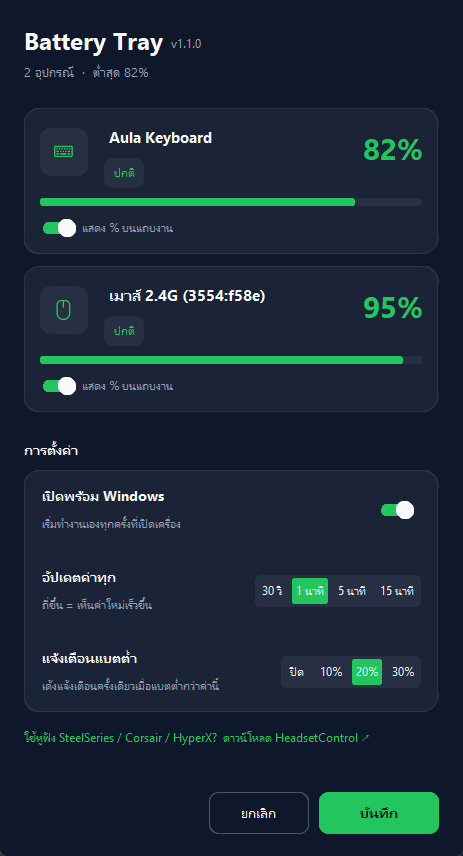
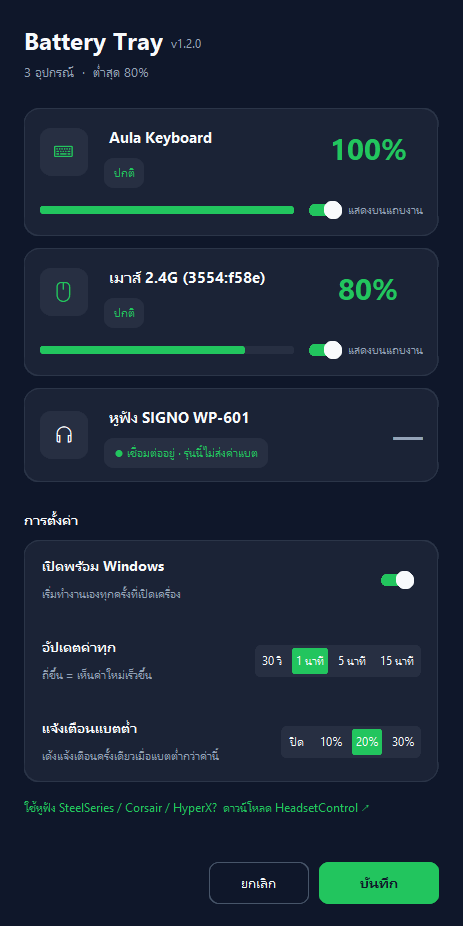
Show headset card for dongles that don't report battery; keep settings window on screen
SIGNO WP-601 (040b:0897) shows connected/unplugged status without a tray
icon. Cards are more compact, the device list scrolls when it would exceed
the screen height, and the window is centered after layout.

diff --git a/battery_monitor.py b/battery_monitor.py
@@ -345,6 +345,27 @@ def bt_devices():
     return [{"key": "bt:" + n, "kind": None, "name": n, "read": lambda n=n: read(n)} for n in bt_batteries()]
 
 
+# ---------- 5. อุปกรณ์ที่ไม่ส่งค่าแบต (แสดงแค่สถานะการเชื่อมต่อ) ----------
+
+# ดองเกิลไม่ส่งค่าแบตมาที่คอม (ตรวจแล้ว: ไม่มีใน HID และโปรแกรมของผู้ผลิตก็ไม่มีฟีเจอร์แบต)
+NO_BATTERY = {"040b:0897": ("หูฟัง SIGNO WP-601", "headset")}
+
+
+def present_usb_keys():
+    return {f"{d['vendor_id']:04x}:{d['product_id']:04x}" for d in hid.enumerate()}
+
+
+def nobattery_devices(cache):
+    """การ์ดสถานะการเชื่อมต่อ — แสดงเฉพาะรุ่นที่เคยเสียบในเครื่องนี้"""
+    seen = cache.setdefault("seen_nobat", [])
+    for key in present_usb_keys() & NO_BATTERY.keys():
+        if key not in seen:
+            seen.append(key)
+    return [{"key": "usb:" + key, "kind": NO_BATTERY[key][1], "name": NO_BATTERY[key][0], "no_battery": True,
+             "read": lambda: None, "connected": lambda k=key: k in present_usb_keys()}
+            for key in seen if key in NO_BATTERY]
+
+
 # ---------- อุปกรณ์ ----------
 
 def load_cache():
@@ -367,7 +388,7 @@ def discover(cache):
     """รวมอุปกรณ์จากทุกแหล่ง — คืนรายการ {key, kind, name, read}"""
     devices = []
     for source in (lambda: compx_devices(cache.setdefault("kinds", {})), lambda: logi_devices(cache),
-                   headset_devices, bt_devices):
+                   headset_devices, bt_devices, lambda: nobattery_devices(cache)):
         try:
             devices += source()
         except Exception:  # แหล่งใดพังไม่ควรทำให้แหล่งอื่นหาย
@@ -494,14 +515,42 @@ def settings_window(devices, settings, last, on_save):
                      text_color=C["text"]).pack(anchor="w", padx=18, pady=(16, 2))
         ctk.CTkLabel(empty, text="เสียบดองเกิล เปิดอุปกรณ์ แล้วคลิกขวาที่ไอคอน → ค้นหาอุปกรณ์ใหม่",
                      font=(TH, 13), text_color=C["sub"]).pack(anchor="w", padx=18, pady=(0, 16))
+    # ponytail: จำนวนการ์ดที่แสดงพร้อมกันประมาณจากความสูงจอ (ส่วนอื่นของหน้าต่าง ~600px, การ์ด ~128px)
+    MAX_CARDS = max(1, (root.winfo_screenheight() - 600) // 128)
+    devlist = (ctk.CTkScrollableFrame(body, height=MAX_CARDS * 128, fg_color=C["bg"])
+               if len(shown) > MAX_CARDS else ctk.CTkFrame(body, fg_color=C["bg"]))
+    devlist.pack(fill="x")
     for dev in shown:
+        if dev.get("no_battery"):
+            connected = dev["connected"]()
+            card = ctk.CTkFrame(devlist, fg_color=C["card"], corner_radius=16, border_width=1, border_color=C["line"])
+            card.pack(fill="x", pady=6)
+            card.grid_columnconfigure(1, weight=1)
+            badge = ctk.CTkFrame(card, width=48, height=48, corner_radius=12, fg_color=C["muted"])
+            badge.grid(row=0, column=0, rowspan=2, padx=(16, 12), pady=16)
+            badge.grid_propagate(False)
+            ctk.CTkLabel(badge, text=GLYPH.get(dev.get("kind"), GLYPH[None]), font=("Segoe MDL2 Assets", 20),
+                         text_color=C["text"] if connected else C["sub"]).place(relx=0.5, rely=0.5, anchor="center")
+            name = ctk.StringVar(value=settings["names"].get(dev["key"], dev["name"]))
+            entry = ctk.CTkEntry(card, textvariable=name, font=(TH, 15, "bold"), text_color=C["text"],
+                                 fg_color=C["card"], border_width=1, border_color=C["card"], corner_radius=8, height=32)
+            entry.grid(row=0, column=1, sticky="ew", pady=(14, 0))
+            focus_ring(entry)
+            pill = ctk.CTkFrame(card, fg_color=C["muted"], corner_radius=10)
+            pill.grid(row=1, column=1, sticky="w", padx=4, pady=(4, 14))
+            ctk.CTkLabel(pill, text="● เชื่อมต่ออยู่ · รุ่นนี้ไม่ส่งค่าแบต" if connected else "○ ไม่ได้เสียบดองเกิล",
+                         font=(TH, 12), text_color=C["accent"] if connected else C["sub"]).pack(padx=10, pady=1)
+            ctk.CTkLabel(card, text="—", font=("Segoe UI", 30, "bold"),
+                         text_color=C["sub"]).grid(row=0, column=2, rowspan=2, padx=(8, 16))
+            rows.append((dev, None, name))
+            continue
         old = last.get(dev["key"])
         stale = bool(dev.get("stale"))
         pct = old[0][0] if old else None
         status, scolor = status_of(old, stale)
         color = hexc(level_color(pct)) if pct is not None and not stale else C["sub"]
 
-        card = ctk.CTkFrame(body, fg_color=C["card"], corner_radius=16, border_width=1, border_color=C["line"])
+        card = ctk.CTkFrame(devlist, fg_color=C["card"], corner_radius=16, border_width=1, border_color=C["line"])
         card.pack(fill="x", pady=6)
         card.grid_columnconfigure(1, weight=1)
 
@@ -525,12 +574,12 @@ def settings_window(devices, settings, last, on_save):
 
         bar = ctk.CTkProgressBar(card, height=8, corner_radius=4, fg_color=C["muted"], progress_color=color)
         bar.set((pct or 0) / 100)
-        bar.grid(row=2, column=0, columnspan=3, sticky="ew", padx=16, pady=(10, 10))
+        bar.grid(row=2, column=0, columnspan=2, sticky="ew", padx=(16, 12), pady=(10, 14))
 
         show = ctk.BooleanVar(value=dev["key"] not in settings["hidden"])
-        ctk.CTkSwitch(card, text="แสดง % บนแถบงาน", variable=show, font=(TH, 12), text_color=C["sub"],
+        ctk.CTkSwitch(card, text="แสดงบนแถบงาน", variable=show, font=(TH, 12), text_color=C["sub"],
                       progress_color=C["accent"], button_color=C["text"], fg_color=C["border"],
-                      width=40).grid(row=3, column=0, columnspan=3, sticky="w", padx=16, pady=(0, 14))
+                      width=40).grid(row=2, column=2, sticky="e", padx=(0, 16), pady=(10, 14))
         rows.append((dev, show, name))
 
     # ---- ตั้งค่าทั่วไป ----
@@ -579,10 +628,11 @@ def settings_window(devices, settings, last, on_save):
     msg.pack(anchor="w", pady=(4, 0))
 
     def save(*_):
-        if rows and not any(show.get() for _, show, _ in rows):
+        switches = [show for _, show, _ in rows if show is not None]
+        if switches and not any(v.get() for v in switches):
             msg.configure(text="⚠ ต้องแสดงอย่างน้อย 1 อุปกรณ์ ไม่งั้นจะกลับมาเปิดหน้านี้ไม่ได้")
             return
-        settings["hidden"] = [d["key"] for d, show, _ in rows if not show.get()]
+        settings["hidden"] = [d["key"] for d, show, _ in rows if show is not None and not show.get()]
         settings["names"] = {d["key"]: n.get().strip() for d, _, n in rows
                              if n.get().strip() and n.get().strip() != d["name"]}
         settings["interval"] = intervals[interval.get()]
@@ -602,6 +652,12 @@ def settings_window(devices, settings, last, on_save):
                   cursor="hand2", command=root.destroy).pack(side="right", padx=(0, 10))
     root.bind("<Return>", save)
     root.bind("<Escape>", lambda _: root.destroy())
+
+    def center():
+        root.update_idletasks()
+        w, h = root.winfo_reqwidth(), root.winfo_reqheight()
+        root.geometry(f"+{max(0, (root.winfo_screenwidth() - w) // 2)}+{max(0, (root.winfo_screenheight() - h) // 2 - 30)}")
+    root.after(10, center)
     root.mainloop()
 
 
@@ -613,7 +669,9 @@ def app():
     settings = {**DEFAULTS, **cache.get("settings", {})}
     cache["settings"] = settings
     last = cache.setdefault("last", {})
-    devices = discover(cache) or [{"key": "none", "kind": None, "name": "ไม่พบอุปกรณ์ที่รองรับ", "read": lambda: None}]
+    all_devices = discover(cache)
+    devices = [d for d in all_devices if not d.get("no_battery")] or [
+        {"key": "none", "kind": None, "name": "ไม่พบอุปกรณ์ที่รองรับ", "read": lambda: None}]
     save_cache(cache)
     stop, wake, lock, settings_open = threading.Event(), threading.Event(), threading.Lock(), threading.Lock()
     alerted = set()
@@ -656,7 +714,7 @@ def app():
 
         def run():
             try:
-                settings_window(devices, settings, last, on_save=wake.set)
+                settings_window(all_devices, settings, last, on_save=wake.set)
             finally:
                 settings_open.release()
         threading.Thread(target=run, daemon=True).start()
@@ -731,6 +789,22 @@ def test():
     assert is_newer("v1.2.0", "1.1.0") and is_newer("v1.10.0", "1.9.0")
     assert not is_newer("v1.1.0", "1.1.0") and not is_newer("v1.0.0", "1.1.0") and not is_newer("beta", "1.1.0")
 
+    # อุปกรณ์ไม่ส่งค่าแบต: ขึ้นเมื่อเคยเสียบ, บอกสถานะเสียบ/ถอดถูกต้อง
+    global present_usb_keys
+    real_present = present_usb_keys
+    try:
+        present_usb_keys = lambda: set()  # noqa: E731
+        assert nobattery_devices({}) == []
+        present_usb_keys = lambda: {"040b:0897", "3554:f58e"}  # noqa: E731
+        c = {}
+        (hs,) = nobattery_devices(c)
+        assert hs["kind"] == "headset" and hs["connected"]() and c["seen_nobat"] == ["040b:0897"]
+        present_usb_keys = lambda: set()  # noqa: E731
+        (hs,) = nobattery_devices(c)
+        assert not hs["connected"]()
+    finally:
+        present_usb_keys = real_present
+
     # Compx: คำตอบจริงจาก capture / อุปกรณ์
     assert mouse_frame().hex() == "0804000000000000000000000000000049"
     assert mouse_parse(bytes.fromhex("0804000000026400104c00000000000087")) == (100, False)
@@ -775,8 +849,10 @@ def test():
 
     sys.stdout.reconfigure(encoding="utf-8")
     for dev in discover(load_cache()):
-        res = dev["read"]()
-        print(tooltip(dev["name"], res))
+        if dev.get("no_battery"):
+            print(f"{dev['name']}: " + ("เชื่อมต่ออยู่ (ไม่ส่งค่าแบต)" if dev["connected"]() else "ไม่ได้เสียบ"))
+            continue
+        print(tooltip(dev["name"], dev["read"]()))
 
 
 if __name__ == "__main__":
